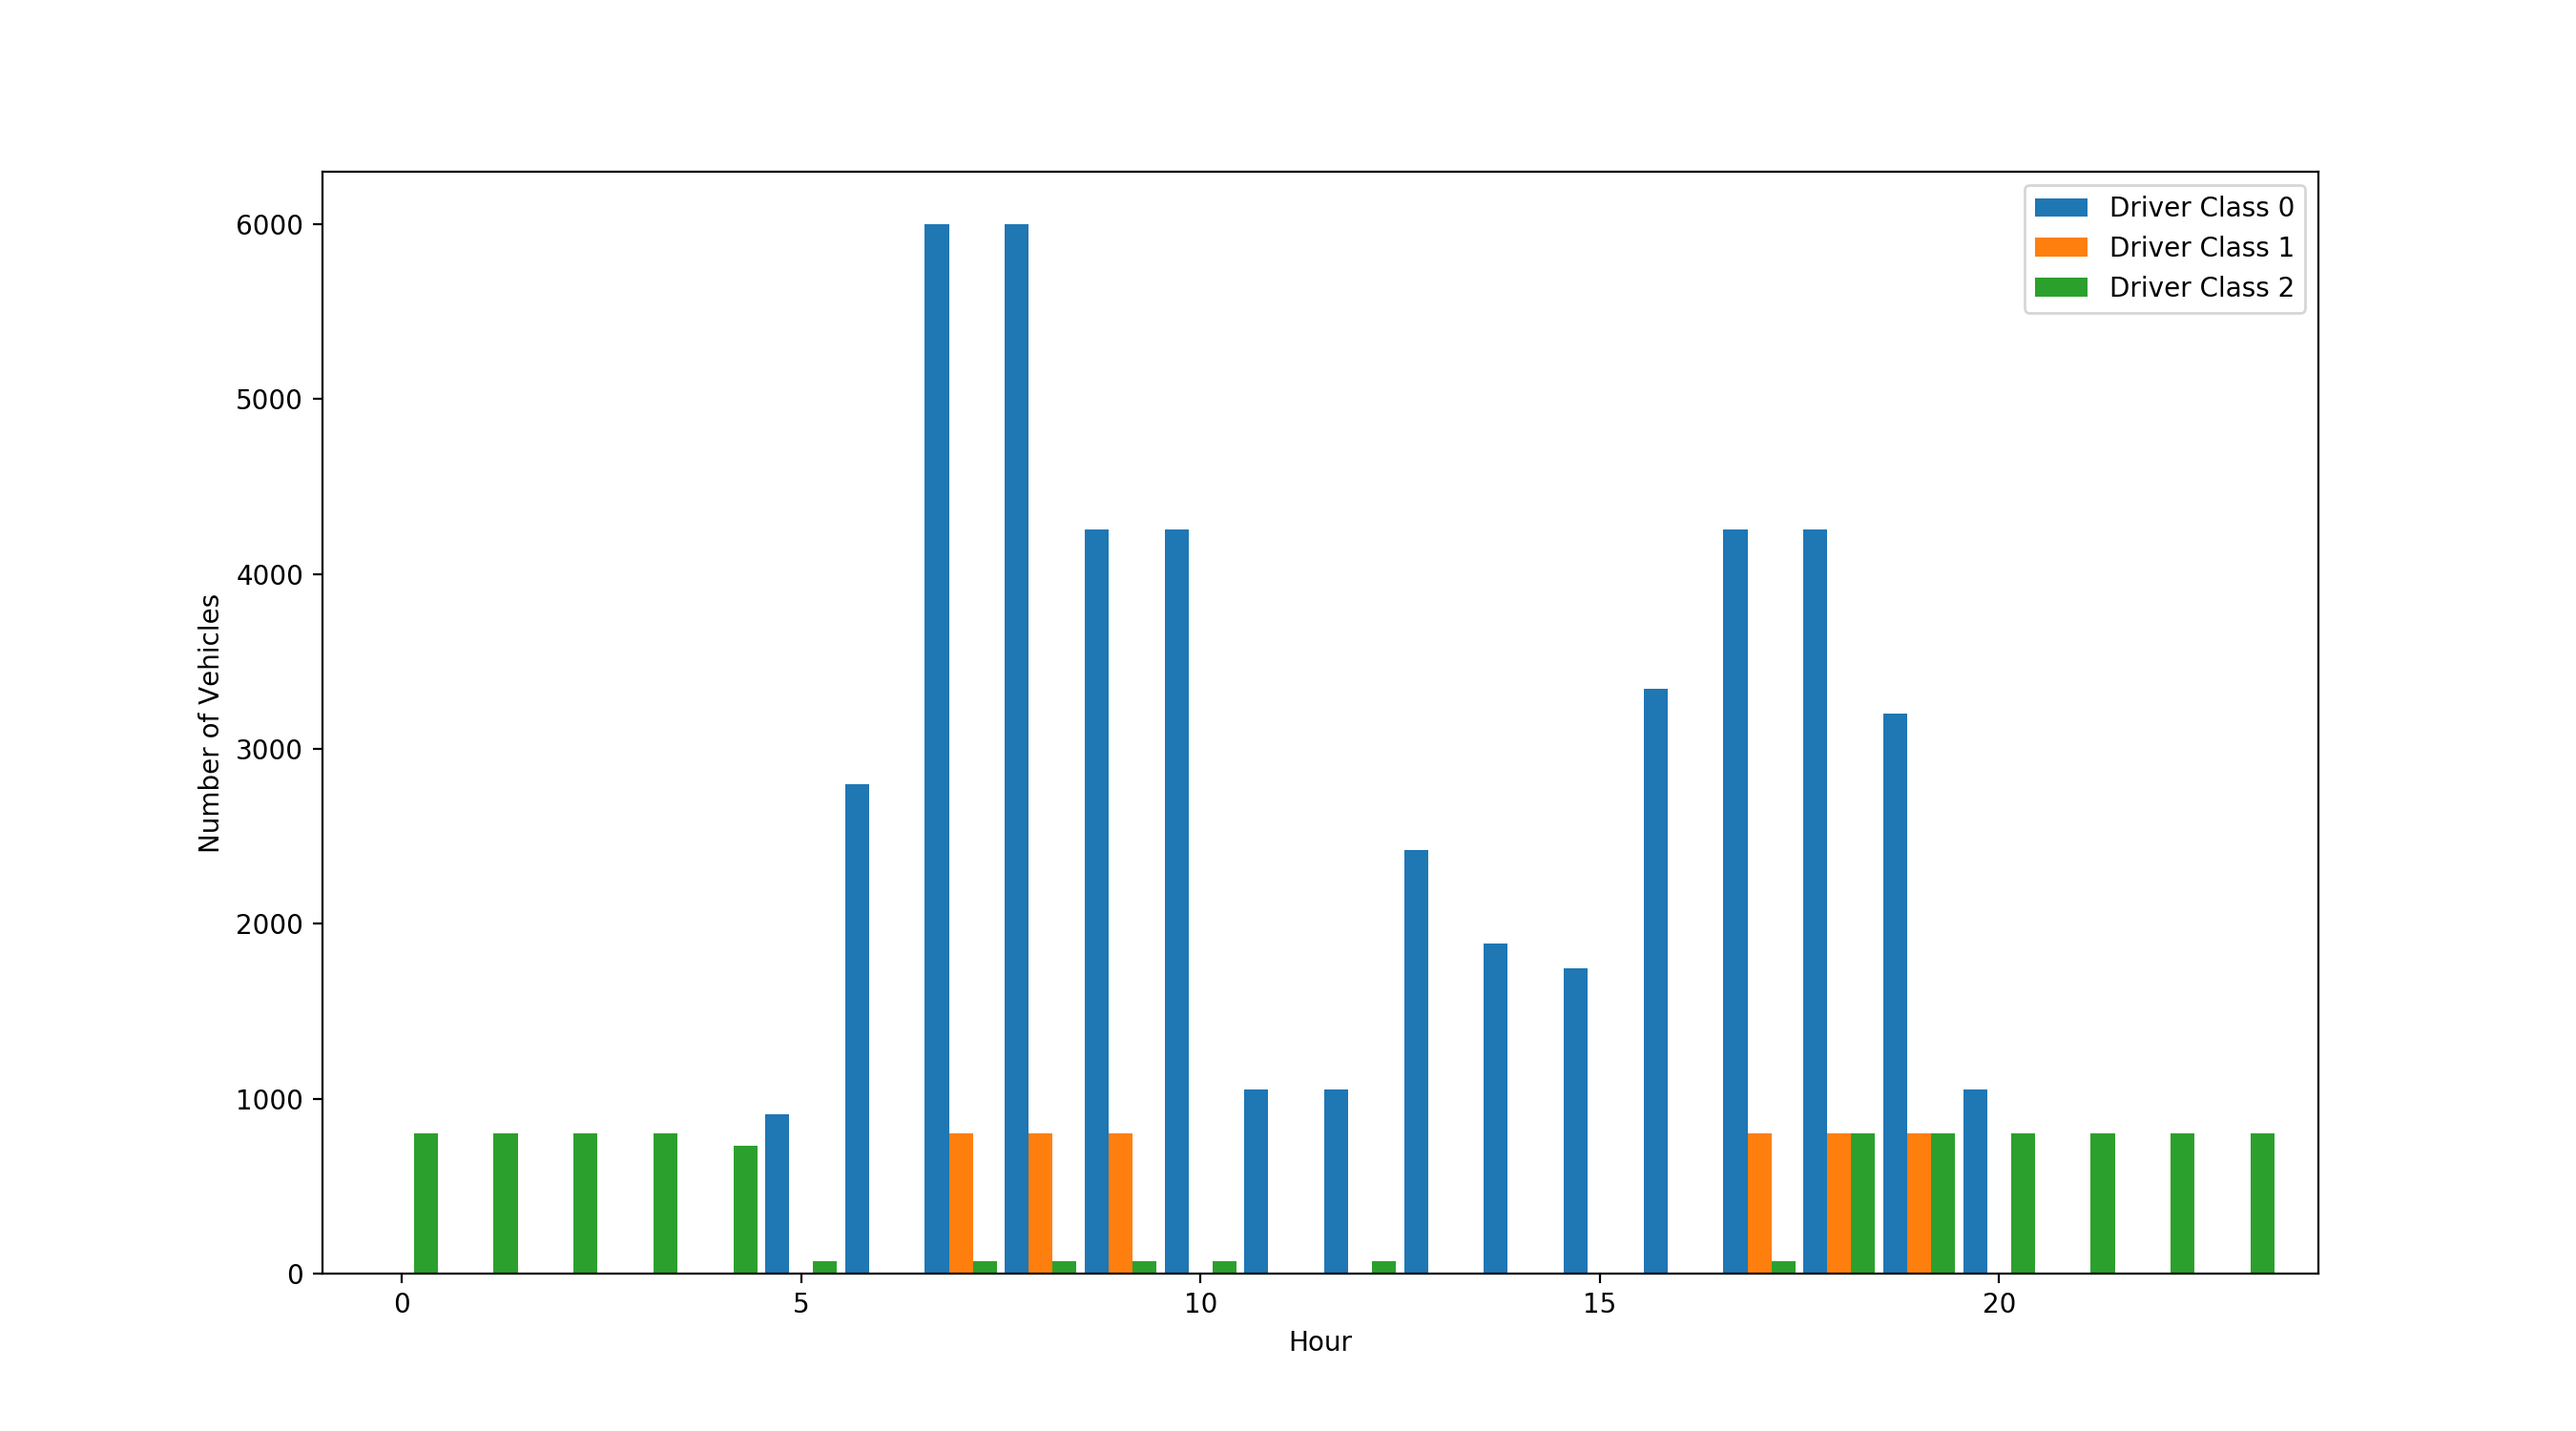
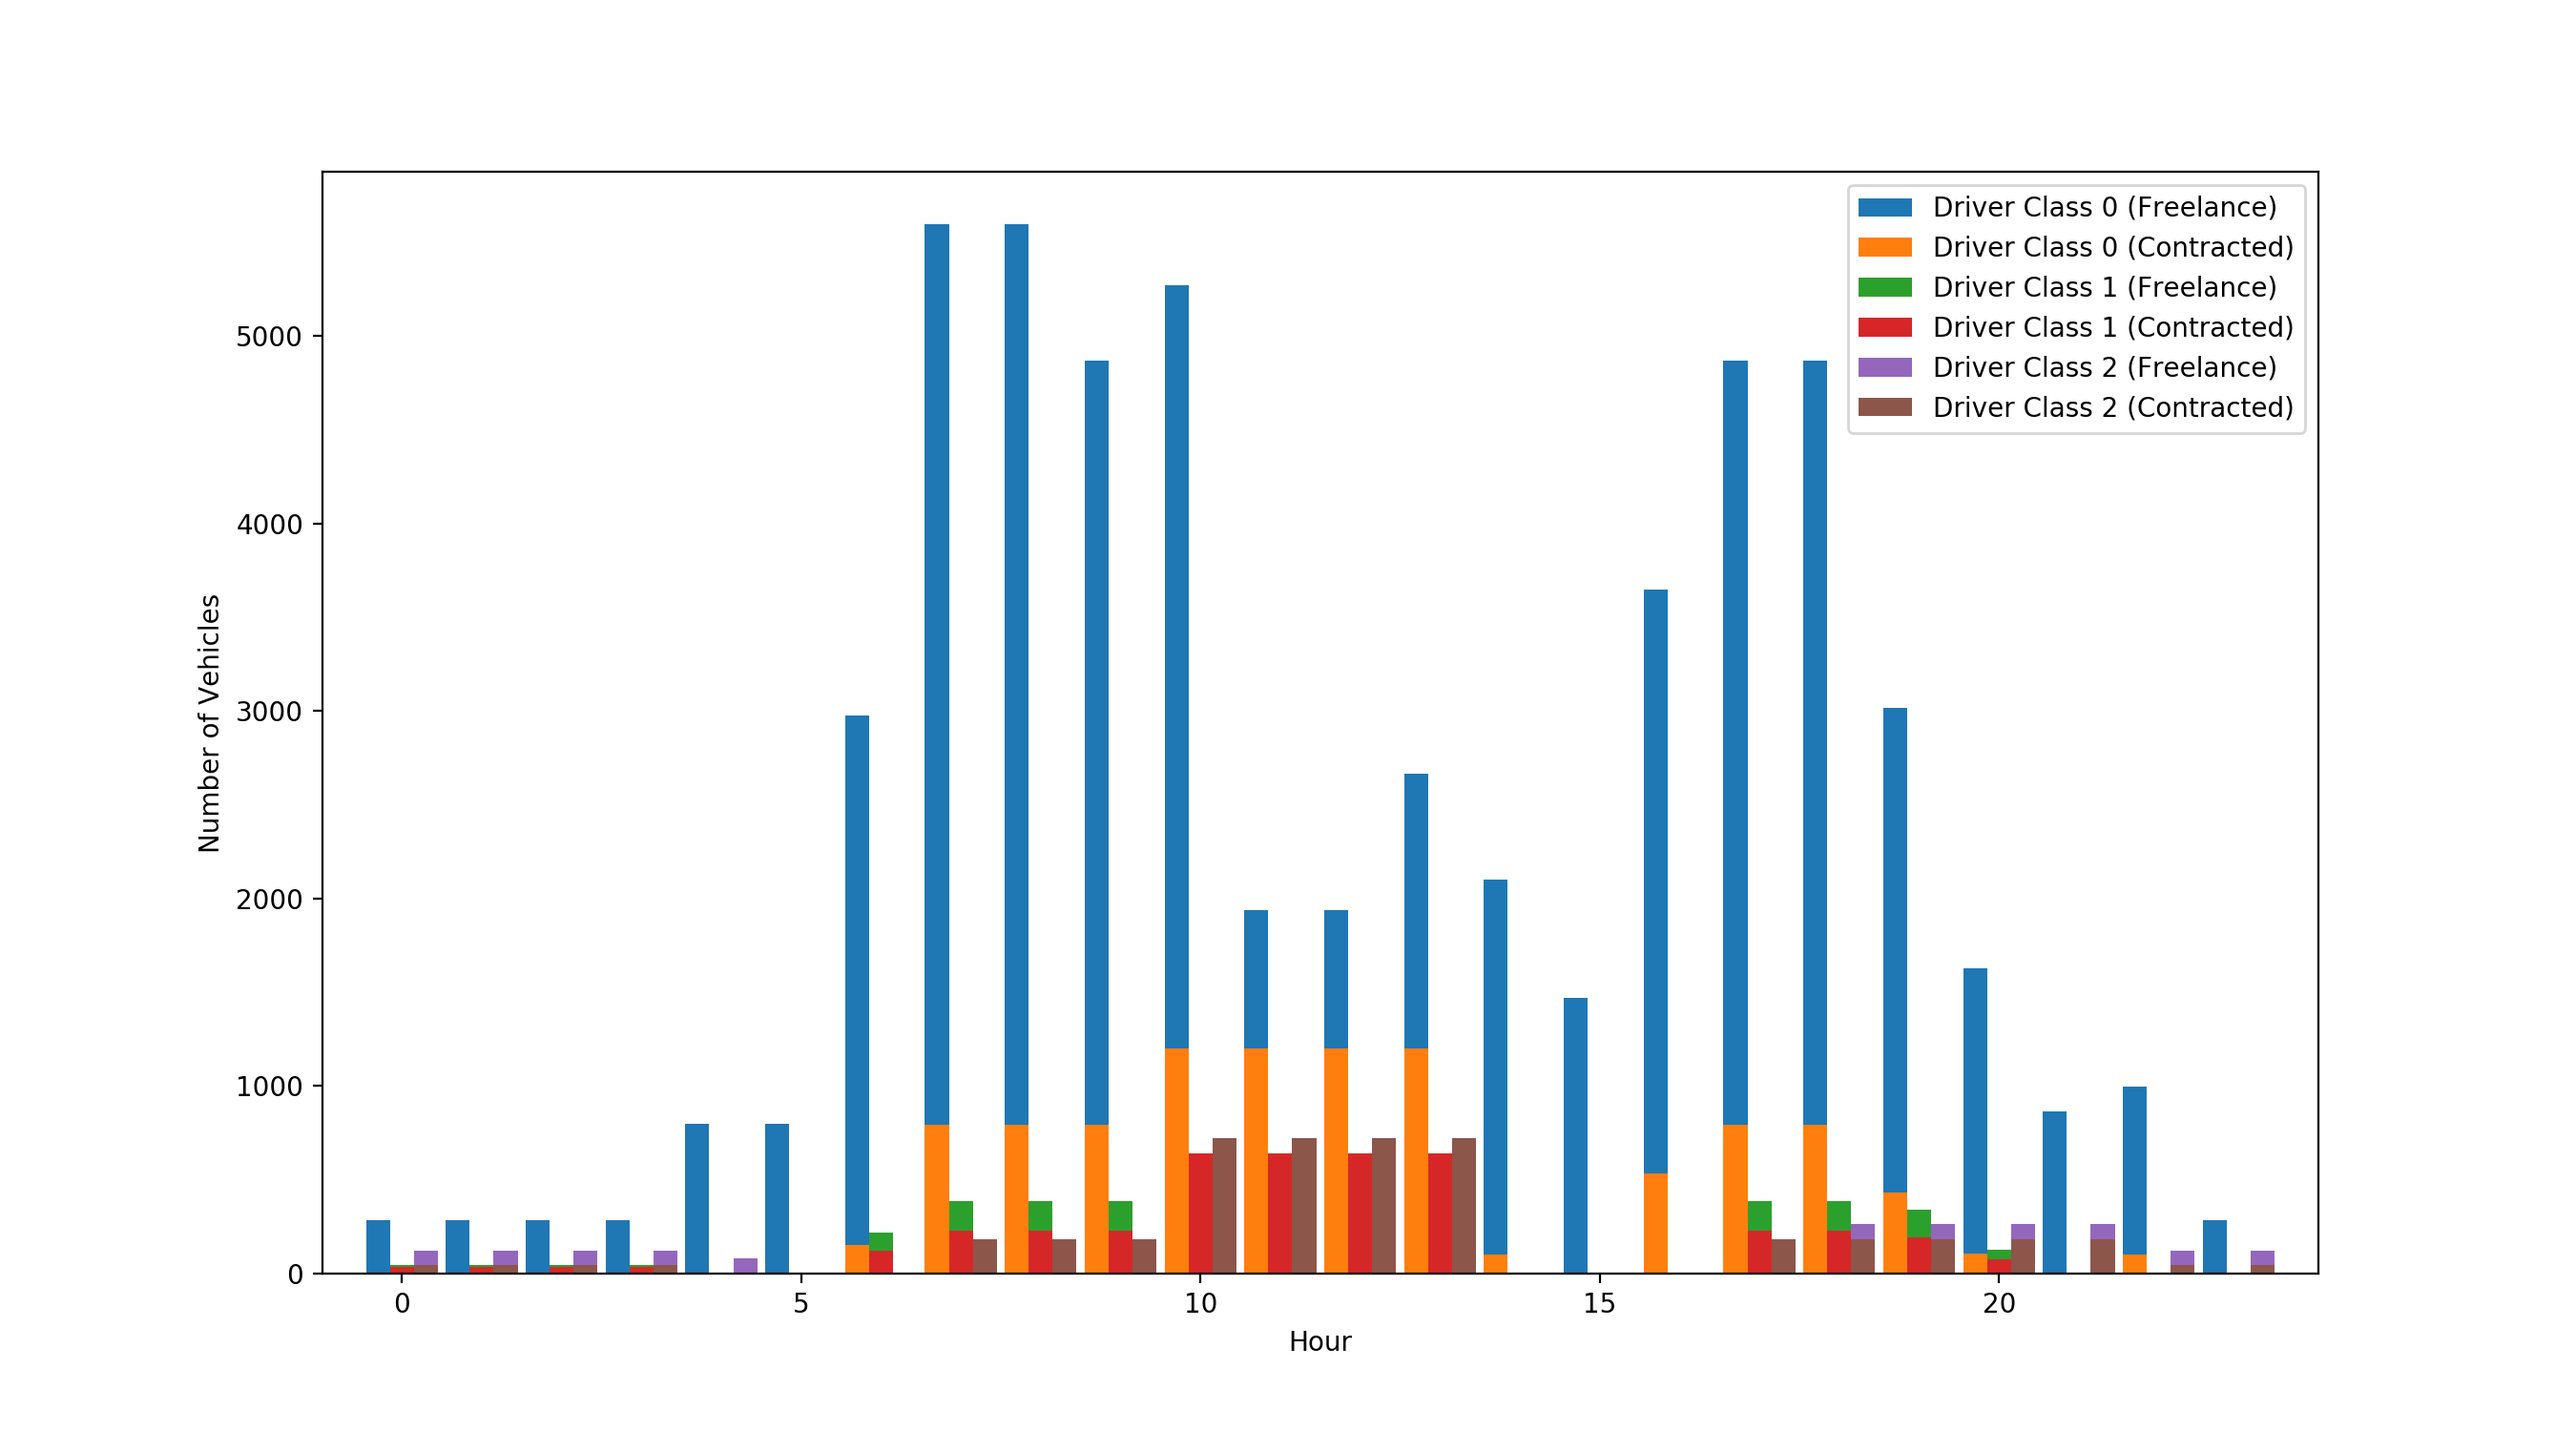
add contraction

diff --git a/user_equilibrium.py b/user_equilibrium.py
@@ -18,11 +18,26 @@ def equality_constraint(x, start, end, value):
     return temp_val
 
 
-def column_generation_user_equilibrium():
-    network = initiate_network(reload=True)
+def update_network_drivers(network, contracted_fracs):
+    for idx in range(3):
+        drivers = network.drivers[idx]
+        network.drivers[idx + 3] = deepcopy(drivers)
+        total_drivers_amount = network.drivers[idx].drivers_amount
+        network.drivers[idx + 3].drivers_amount = np.round((1 - contracted_fracs[idx]) * total_drivers_amount)
+        network.drivers[idx].drivers_amount = np.round(contracted_fracs[idx] * total_drivers_amount)
+        network.drivers[idx + 3].drivers_id = idx + 3
+    return network
+
+
+def column_generation_user_equilibrium(network, contracted_plan, contracted_fracs):
+    network = update_network_drivers(network, contracted_fracs)
+
+    contracted_path_list = [None, None, None, contracted_plan, contracted_plan, contracted_plan]
+
     path_set_dict = {0: [[0, 0, 0, 0, 0, 0, 1, 1, 1, 0, 0, 0, 0, 1, 1, 1, 0, 0, 0, 0, 0, 0, 0, 0]],
                      1: [[0, 0, 0, 0, 0, 0, 1, 1, 1, 1, 0, 0, 0, 1, 1, 1, 0, 0, 0, 0, 0, 0, 0, 0]],
-                     2: [[1, 1, 1, 1, 1, 0, 0, 0, 0, 0, 0, 0, 0, 0, 0, 0, 0, 0, 1, 1, 1, 1, 1, 1]]}
+                     2: [[1, 1, 1, 1, 1, 0, 0, 0, 0, 0, 0, 0, 0, 0, 0, 0, 0, 0, 1, 1, 1, 1, 1, 1]],
+                     3: [contracted_plan], 4: [contracted_plan], 5: [contracted_plan]}
 
     total_paths = len(path_set_dict)
     objective_value_list = []
@@ -36,7 +51,7 @@ def column_generation_user_equilibrium():
                                                                       network)
         objective_value_list.append(opt_cost_value)
         link_flow_distribution = model.get_link_vehicle_hours(path_set_dict, opt_path_flow)
-        optimum_path = network.get_optimum_path(link_flow_distribution)
+        optimum_path = network.get_optimum_path(link_flow_distribution, contracted_path_list)
 
         total_paths = 0
         for driver_id in path_set_dict.keys():
@@ -48,7 +63,8 @@ def column_generation_user_equilibrium():
             break
         previous_objective_function = opt_cost_value
 
-    solution_state = model.get_solution_state(temp_path_set_dict, opt_path_flow, network, output_figure=True)
+    solution_state = model.get_solution_state(temp_path_set_dict, opt_path_flow,
+                                              network, contracted_plan, output_figure=True)
     return solution_state
 
 
@@ -76,10 +92,6 @@ def get_optimal_path_distribution(path_set_dict, initiate_path, network):
                         constraints=constraints_tuple)
     function_value = solution.fun
     sol_path_distribution = solution.x
-    print("The best path is", sol_path_distribution, "the objective function is", function_value)
+    # print("The best path is", sol_path_distribution, "the objective function is", function_value)
     return sol_path_distribution, function_value
-
-
-if __name__ == '__main__':
-    column_generation_user_equilibrium()
 

diff --git a/classes.py b/classes.py
@@ -62,7 +62,7 @@ class Drivers(object):
         self.unit_time_cost = unit_time_cost
         self.unit_runs_cost = unit_runs_cost
 
-    def get_path_cost(self, path):
+    def get_path_cost(self, path, bonus=0):
         link_based = np.sum(np.array(path) * np.array(self.links_preference))
         cumulative_time = pow(float(np.sum(path)), 1.2) * self.unit_time_cost
 
@@ -78,7 +78,7 @@ class Drivers(object):
         run_cost = runs * self.unit_runs_cost
 
         total_cost = run_cost + cumulative_time + link_based
-        return total_cost
+        return total_cost - bonus
 
 
 class Network(object):
@@ -94,6 +94,8 @@ class Network(object):
     def add_driver(self, driver):
         if self.drivers is None:
             self.drivers = {}
+
+        print(driver.drivers_id)
         self.drivers[driver.drivers_id] = driver
 
     def get_driver_amount(self):
@@ -133,7 +135,7 @@ class Network(object):
                 total_objective_value += driver_path_cost * path_flow
         return total_objective_value
 
-    def get_optimum_path(self, link_flow):
+    def get_optimum_path(self, link_flow, contracted_path_list):
         link_revenue_list = []
         for idx in range(len(link_flow)):
             link = self.links[idx]
@@ -146,9 +148,16 @@ class Network(object):
             drivers = self.drivers[drivers_id]
             path_tuple = np.linspace(0, 0, 24)
 
+            contracted_path = contracted_path_list[drivers_id]
+            if contracted_path is None:
+                contracted_path = np.linspace(0, 0, 24).tolist()
+
             bounds = []
             for ibd in range(24):
-                bounds.append((0, 1))
+                if contracted_path[ibd] > 0:
+                    bounds.append((0.9, 1))
+                else:
+                    bounds.append((0, 1))
             bounds_tuple = tuple(bounds)
 
             solution = minimize(get_drivers_path_cost,
@@ -162,6 +171,7 @@ class Network(object):
                     optimum_path.append(1)
                 else:
                     optimum_path.append(0)
+
             optimum_path_list.append(optimum_path)
         return optimum_path_list
 

diff --git a/model.py b/model.py
@@ -149,14 +149,18 @@ def get_solution_state(path_set_dict, path_flow_list, network, output_figure=Fal
     if output_figure:
         plt.figure(dpi=200, figsize=[13.5, 7.5])
         total_width = 0.9
-        n = len(solution_state["vehicle_link_hours"])
+        n = int(len(solution_state["vehicle_link_hours"]) / 2)
         width = total_width / n
         x = np.arange(24)
         x = x - (total_width - width) / 2
 
         for driver_idx in range(n):
-            plt.bar(x + driver_idx * width, [val for val in solution_state["vehicle_link_hours"][driver_idx]],
-                    width=width, label="Driver Class " + str(driver_idx))
+            local_vehicle_hours = np.array(solution_state["vehicle_link_hours"][driver_idx]) + \
+                                  np.array(solution_state["vehicle_link_hours"][driver_idx + n])
+            plt.bar(x + driver_idx * width, local_vehicle_hours,
+                    width=width, label="Driver Class " + str(driver_idx) + " (Freelance)")
+            plt.bar(x + driver_idx * width, solution_state["vehicle_link_hours"][driver_idx + n],
+                    width=width, label="Driver Class " + str(driver_idx) + " (Contracted)")
 
         plt.xlabel("Hour")
         plt.ylabel("Number of Vehicles")

diff --git a/main.py b/main.py
@@ -1,0 +1,17 @@
+from initiate import initiate_network
+from user_equilibrium import column_generation_user_equilibrium
+
+
+def main():
+    # load the network
+    network = initiate_network(reload=False)
+
+    # get the user equilibrium using column generation
+    contracted_path = [0, 0, 0, 0, 0, 0, 0, 0, 0, 0, 1, 1, 1, 1, 0, 0, 0, 0, 0, 0, 0, 0, 0, 0]
+    contracted_fracs = [0.8, 0.2, 0.1]
+
+    column_generation_user_equilibrium(network, contracted_path, contracted_fracs)
+
+
+if __name__ == '__main__':
+    main()
